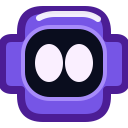
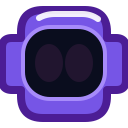
Cycle toolbar eyes through white purple and dark

Changed region(s): [[0.25, 0.3438, 0.75, 0.6562]]

diff --git a/src/background.js b/src/background.js
@@ -14,7 +14,7 @@ const DEFAULT_ACTION_ICONS = {
   48: "icons/toolbar/mascot-glyph-48.png",
   128: "icons/toolbar/mascot-glyph-128.png",
 };
-const CAPTURING_ACTION_ICONS = [1, 3].map((frame) => ({
+const CAPTURING_ACTION_ICONS = [1, 2, 3].map((frame) => ({
   16: `icons/toolbar/mascot-capturing-${frame}-16.png`,
   32: `icons/toolbar/mascot-capturing-${frame}-32.png`,
   48: `icons/toolbar/mascot-capturing-${frame}-48.png`,

diff --git a/docs/TODO.md b/docs/TODO.md
@@ -5,7 +5,7 @@
 - Visually verify PageSweep 0.2.13 amber failure feedback and its 60-second inactivity fallback; background cancellation remains separate from popup feedback.
 
 - Verify PageSweep 0.2.12 on the same page starting at the top, middle, and bottom; capture scroll positions must remain contiguous and restore the original position.
-- Visually verify the distinct dim/bright toolbar-eye blink and fainter unfinished track in PageSweep 0.2.14.
+- Visually verify the white/purple/dark toolbar-eye cycle in PageSweep 0.2.15 and fainter unfinished track.
 - Verify that the mascot and plume remain physically locked together throughout normal and completion hover in PageSweep 0.2.10.
 - Verify automatic popup dismissal after 1.7 seconds and inspect capture timing diagnostics in PageSweep 0.2.11; a slower 15-frame run was reported.
 

diff --git a/docs/CHANGELOG.md b/docs/CHANGELOG.md
@@ -6,6 +6,8 @@ All notable changes to this project are documented here. The project uses semant
 
 ### Changed
 
+- Version 0.2.15 keeps toolbar eyes full size and cycles white, purple, and dark at 450 ms per state for a clearer capture indicator.
+
 - Version 0.2.14 alternates visibly dim, narrow eyes with bright full-height eyes every 450 ms in the toolbar, and halves the unfinished progress track opacity.
 
 - Bumped the extension version to 0.2.9, completed the small-size cape refinement, removed the redundant numeric toolbar badge, and replaced the toolbar arrow with a higher-contrast, edge-filling transparent robot glyph whose larger eyes pulse through three brightness levels during capture while retaining the final success or error symbol.
